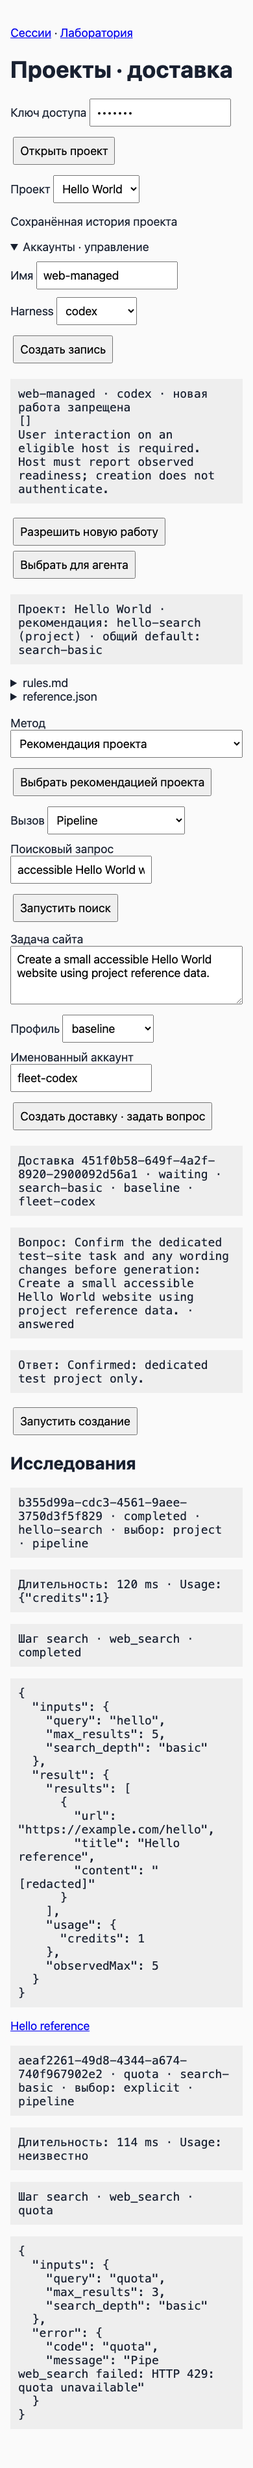
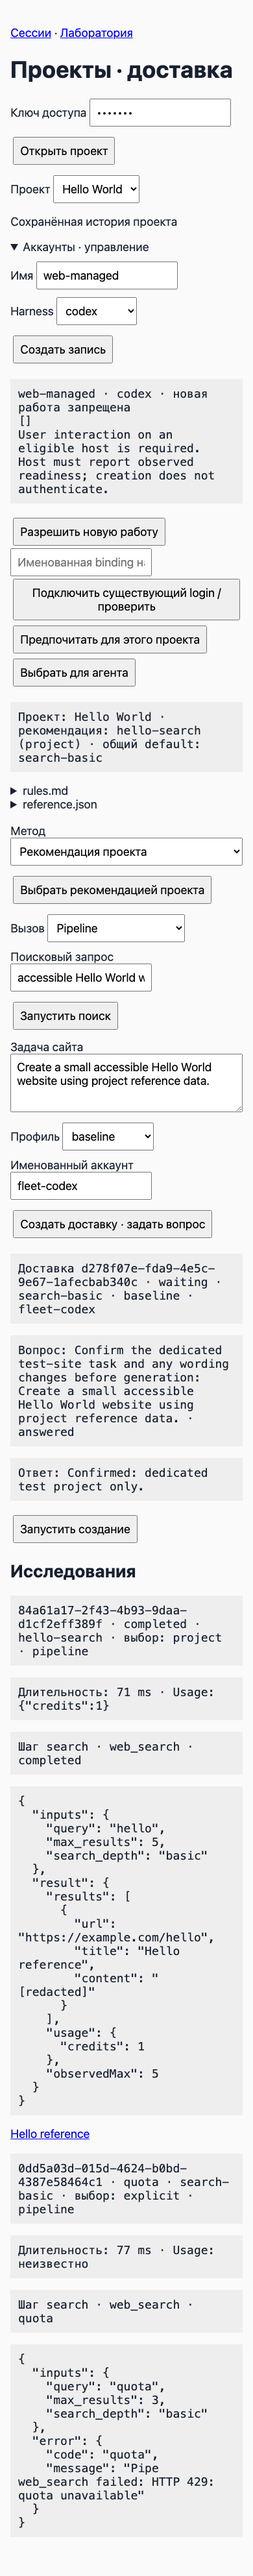
feat: inspect host account bindings and honor project preference

diff --git a/packages/coordinator/project-ui.ts b/packages/coordinator/project-ui.ts
@@ -3,7 +3,7 @@ const proxy=${proxy},$=id=>document.getElementById(id);let requestId=null,delive
 async function api(path,body){const r=await fetch(path,{method:body?'POST':'GET',headers:{...(proxy?{}:{Authorization:'Bearer '+$('key').value}),'Content-Type':'application/json'},body:body?JSON.stringify(body):undefined});if(!r.ok)throw Error(await r.text());return r.json()}
 const op=(name,args)=>api('/api/project-operations/'+name,args),project=()=>$('project').value;
 function line(el,t){const p=document.createElement('pre');p.textContent=t;el.append(p)}function button(el,label,action){const b=document.createElement('button');b.textContent=label;b.onclick=()=>action().then(load).catch(error);el.append(b)}
-async function load(){const ac=await api('/api/accounts');$('accounts').replaceChildren();for(const a of ac.accounts){const el=document.createElement('section');line(el,a.name+' · '+a.harness+' · '+(a.enabled?'новая работа разрешена':'новая работа запрещена')+'\\n'+JSON.stringify(a.bindings,null,2)+'\\n'+a.login);button(el,a.enabled?'Запретить новую работу':'Разрешить новую работу',()=>op('account_enabled',{accountId:a.id,enabled:!a.enabled}));const binding=document.createElement('input');binding.placeholder='Именованная binding на хосте';binding.setAttribute('aria-label','Host binding '+a.name);el.append(binding);button(el,'Подключить существующий login / проверить',()=>op('account_connect',{accountId:a.id,binding:binding.value}));button(el,'Выбрать для агента',async()=>{$('account').value=a.name});$('accounts').append(el)}localStorage.setItem('fleet-project',project());const p=await api('/api/projects/'+project()),c=await api('/api/projects/'+project()+'/catalogue');$('context').replaceChildren();line($('context'),'Проект: '+p.name+' · рекомендация: '+c.recommendedMethod+' ('+c.recommendationSource+') · общий default: '+c.sharedDefault);for(const f of p.context){const d=document.createElement('details'),s=document.createElement('summary');s.textContent=f.path;d.append(s);line(d,f.text);$('context').append(d)}const chosen=$('method').value;$('method').replaceChildren(new Option('Рекомендация проекта',''));for(const m of c.methods)$('method').append(new Option(m.name+' · '+m.id,m.id));$('method').value=chosen;
+async function load(){const ac=await api('/api/accounts');$('accounts').replaceChildren();for(const a of ac.accounts){const el=document.createElement('section');line(el,a.name+' · '+a.harness+' · '+(a.enabled?'новая работа разрешена':'новая работа запрещена')+'\\n'+JSON.stringify(a.bindings,null,2)+'\\n'+a.login);button(el,a.enabled?'Запретить новую работу':'Разрешить новую работу',()=>op('account_enabled',{accountId:a.id,enabled:!a.enabled}));const binding=document.createElement('input');binding.placeholder='Именованная binding на хосте';binding.setAttribute('aria-label','Host binding '+a.name);el.append(binding);button(el,'Подключить существующий login / проверить',()=>op('account_connect',{accountId:a.id,binding:binding.value}));button(el,'Предпочитать для этого проекта',()=>op('account_preference',{projectId:project(),accountId:a.id}));button(el,'Выбрать для агента',async()=>{$('account').value=a.name});$('accounts').append(el)}localStorage.setItem('fleet-project',project());const p=await api('/api/projects/'+project()),c=await api('/api/projects/'+project()+'/catalogue');$('context').replaceChildren();line($('context'),'Проект: '+p.name+' · рекомендация: '+c.recommendedMethod+' ('+c.recommendationSource+') · общий default: '+c.sharedDefault);for(const f of p.context){const d=document.createElement('details'),s=document.createElement('summary');s.textContent=f.path;d.append(s);line(d,f.text);$('context').append(d)}const chosen=$('method').value;$('method').replaceChildren(new Option('Рекомендация проекта',''));for(const m of c.methods)$('method').append(new Option(m.name+' · '+m.id,m.id));$('method').value=chosen;
 const history=await api('/api/projects/'+project()+'/runs');$('runs').replaceChildren();for(const r of history.runs){const el=document.createElement('section');el.dataset.run=r.id;line(el,r.id+' · '+r.state+' · '+r.selectedMethod+' · выбор: '+r.selectionSource+' · '+r.invocation);line(el,'Длительность: '+(r.durationMs===null?'неизвестно':r.durationMs+' ms')+' · Usage: '+(r.usage===null?'неизвестно':JSON.stringify(r.usage)));for(const step of r.steps){line(el,'Шаг '+step.id+' · '+step.tool+' · '+step.state);line(el,JSON.stringify({inputs:step.arguments,result:step.result,error:step.error},null,2))}for(const source of r.result?.sources||[]){try{const u=new URL(source.url);if(!['http:','https:'].includes(u.protocol))continue;const a=document.createElement('a');a.href=u.href;a.textContent=source.title;a.rel='noopener';a.target='_blank';el.append(a)}catch{}}$('runs').append(el)}
 const ds=await op('delivery_history',{projectId:project()}),qs=await op('question_history',{projectId:project()});$('deliveries').replaceChildren();for(const d of ds.deliveries){const el=document.createElement('section');el.dataset.delivery=d.id;line(el,'Доставка '+d.id+' · '+d.state+' · '+d.methodId+' · '+d.profileId+' · '+d.account);const q=qs.questions.find(q=>q.id===d.questionId);line(el,'Вопрос: '+q.text+' · '+q.state);if(q.state==='waiting'){const answer=document.createElement('input');answer.setAttribute('aria-label','Ответ оператору');answer.value='Confirmed: dedicated test project only.';el.append(answer);button(el,'Сохранить ответ',()=>op('question_answer',{questionId:q.id,answer:answer.value}))}else{line(el,'Ответ: '+q.answer);button(el,'Запустить создание',()=>op('delivery_generate',{deliveryId:d.id}))}for(const step of d.steps){line(el,JSON.stringify(step,null,2));if(step.executionId){const a=document.createElement('a');a.href='/?session='+d.sessionId;a.textContent='История сессии / '+step.executionId;el.append(a)}}if(d.error)line(el,JSON.stringify(d.error));if(d.state==='published')button(el,'Проверить отказ публикации',()=>op('delivery_step',{deliveryId:d.id,kind:'publish-failure'}));$('deliveries').append(el)}$('status').textContent='Сохранённая история проекта';}
 function error(e){$('status').textContent=e.message}$('load').onclick=()=>load().catch(error);$('project').value=localStorage.getItem('fleet-project')||'hello-world';$('project').onchange=()=>{requestId=null;deliveryRequestId=null;load().catch(error)};$('recommend').onclick=()=>op('recommendation_set',{projectId:project(),methodId:$('method').value}).then(load).catch(error);

diff --git a/packages/coordinator/accounts.ts b/packages/coordinator/accounts.ts
@@ -4,7 +4,8 @@ export function accounts(app:any,store:any,config:any){
  const name=(v:any)=>typeof v==='string'&&/^[a-z][a-z0-9-]{0,79}$/.test(v);
  const operations:any={
   account_list:()=>({accounts:all('managed-account')}),
-  account_create:(b:any)=>{if(!name(b.name)||!['codex','claude','antigravity'].includes(b.harness)||Object.keys(b).some(k=>!['name','harness'].includes(k)))fail(400,'Expected account name and harness');if(all('managed-account').some((a:any)=>a.name===b.name))fail(409,'Account name exists');const a={id:randomUUID(),name:b.name,harness:b.harness,enabled:true,createdAt:Date.now(),bindings:[],login:'User interaction on an eligible host is required. Host must report observed readiness; creation does not authenticate.'};put('managed-account',a);return a},
+  account_create:(b:any)=>{if(!name(b.name)||!['codex','claude','antigravity'].includes(b.harness)||Object.keys(b).some(k=>!['name','harness'].includes(k)))fail(400,'Expected account name and harness');if(all('managed-account').some((a:any)=>a.name===b.name))fail(409,'Account name exists');const a={id:randomUUID(),name:b.name,harness:b.harness,enabled:true,createdAt:Date.now(),bindings:[],login:'Native login on the eligible host, under its protected binding environment: '+({codex:'codex login --device-auth',claude:'claude auth login --claudeai (Mac/Windows only)',antigravity:'agy acp --login (may replace the shared native principal; explicit review required)'} as any)[b.harness]+'. Never paste codes or tokens into Fleet. Inspect an existing authorized login first; creation does not authenticate.'};put('managed-account',a);return a},
+  account_preference:(b:any)=>{if(!['hello-world','hello-world-alt'].includes(b.projectId))fail(404,'Unknown project');const a=get(b.accountId,'managed-account');const p={id:'project-account:'+b.projectId,projectId:b.projectId,accountName:a.name,selectedAt:Date.now(),actor:'operator'};put('project-account',p);return p},
   account_connect:(b:any)=>{const a=get(b.accountId,'managed-account');if(!name(b.binding)||!config.integrationHostId)fail(400,'Expected existing host-owned binding and available Mac program worker');const old=all('account-inspection').find((x:any)=>x.accountId===a.id&&x.binding===b.binding&&!['completed','failed','unknown'].includes(get(x.executionId,'execution').state));if(old)return old;const sid=randomUUID(),id=randomUUID();put('session',{id:sid,createdAt:Date.now(),actor:'program-worker'});put('execution',{id,executionId:id,sessionId:sid,hostId:config.integrationHostId,state:'queued',createdAt:Date.now(),actor:'program-worker',accountId:a.id});put('command',{id:randomUUID(),executionId:id,sessionId:sid,hostId:config.integrationHostId,kind:'account-inspect',status:'pending',payload:{accountId:a.id,harness:a.harness,binding:b.binding,nativeHostId:config.hostId}});const r={id:randomUUID(),accountId:a.id,binding:b.binding,executionId:id,createdAt:Date.now(),loginAction:'Inspect existing authorized login only. New or replacement login requires the native user interaction shown by the host; no authentication is changed by this operation.'};put('account-inspection',r);return r},
   account_enabled:(b:any)=>{const a=get(b.accountId,'managed-account');if(typeof b.enabled!=='boolean')fail(400,'Expected enabled');a.enabled=b.enabled;a.updatedAt=Date.now();put('managed-account',a);return a},
  };
@@ -14,5 +15,5 @@ export function accounts(app:any,store:any,config:any){
  app.get('/api/accounts',async()=>operations.account_list());
  app.post('/api/accounts',async(req:any)=>operations.account_create(req.body));
  app.post('/api/accounts/:id/enabled',async(req:any)=>operations.account_enabled({...req.body,accountId:req.params.id}));
- return {operations,resolve,report};
+ return {operations,resolve,report,preferred:(projectId:string)=>all('project-account').find((p:any)=>p.projectId===projectId)?.accountName};
 }

diff --git a/packages/coordinator/delivery.ts b/packages/coordinator/delivery.ts
@@ -1,7 +1,7 @@
 import {randomUUID,createHash} from 'node:crypto';
 import {readTrustedProfile} from './lab.js';
 // shortcut: static-site delivery only; add other worker kinds after a real consumer exists.
-export function delivery(store:any,config:any,enqueue:any,projects:any,resolveAccount:any){
+export function delivery(store:any,config:any,enqueue:any,projects:any,resolveAccount:any,preferredAccount:any){
  const {all,get,put}=store;
  const fail=(code:number,message:string):never=>{throw Object.assign(Error(message),{statusCode:code})};
  const save=(r:any)=>{put('delivery',r);return r};
@@ -10,10 +10,10 @@ export function delivery(store:any,config:any,enqueue:any,projects:any,resolveAc
   delivery_create:async(b:any)=>{
    if(!b||Array.isArray(b)||Object.keys(b).some(k=>!['projectId','requestId','task','methodId','invocation','profileId','account'].includes(k))||typeof b.requestId!=='string'||!b.requestId||b.requestId.length>200||b.invocation!==undefined&&!['direct','pipeline'].includes(b.invocation)||b.account!==undefined&&(typeof b.account!=='string'||!/^(?:[a-z][a-z0-9-]{0,79}|[a-f0-9-]{36})$/.test(b.account))||typeof b.task!=='string'||!b.task.trim()||b.task.length>4000)fail(400,'Expected requestId and task');
    const signature=JSON.stringify(b),old=all('delivery').find((r:any)=>r.projectId===b.projectId&&r.requestId===b.requestId);if(old){if(old.signature!==signature)fail(409,'Delivery identity conflict');return reconcile(old)}
-   resolveAccount(b.account??'fleet-codex','codex',config.hostId);readTrustedProfile(config.profilesDirectory||'config/agents',b.profileId??'baseline');
+   resolveAccount(b.account??preferredAccount(b.projectId)??'fleet-codex','codex',config.hostId);readTrustedProfile(config.profilesDirectory||'config/agents',b.profileId??'baseline');
    const context=projects.project_context(b),catalogue=projects.catalogue(b);if(!catalogue.methods.some((m:any)=>m.id===(b.methodId??catalogue.recommendedMethod)))fail(400,'Method unavailable');
    const q=projects.question_ask({projectId:b.projectId,requestId:'delivery:'+b.requestId,text:'Confirm the dedicated test-site task and any wording changes before generation: '+b.task});
-   return save({id:randomUUID(),projectId:b.projectId,requestId:b.requestId,signature,task:b.task,context,methodId:b.methodId??catalogue.recommendedMethod,selectionSource:b.methodId?'explicit':catalogue.recommendationSource,invocation:b.invocation??'pipeline',profileId:b.profileId??'baseline',account:b.account??'fleet-codex',questionId:q.id,createdAt:Date.now(),state:'waiting',steps:[]});
+   return save({id:randomUUID(),projectId:b.projectId,requestId:b.requestId,signature,task:b.task,context,methodId:b.methodId??catalogue.recommendedMethod,selectionSource:b.methodId?'explicit':catalogue.recommendationSource,invocation:b.invocation??'pipeline',profileId:b.profileId??'baseline',account:b.account??preferredAccount(b.projectId)??'fleet-codex',accountSelectionSource:b.account?'explicit':preferredAccount(b.projectId)?'project-preference':'legacy-default',questionId:q.id,createdAt:Date.now(),state:'waiting',steps:[]});
   },
   delivery_generate:async(b:any)=>{
    const r=get(b.deliveryId,'delivery');if(r.steps.length||r.state!=='waiting')return reconcile(r);const q=get(r.questionId,'project-question');if(q.state!=='answered')fail(409,'Operator answer required');

diff --git a/tests/coordinator/delivery.test.ts b/tests/coordinator/delivery.test.ts
@@ -2,7 +2,7 @@ import {test} from 'node:test';import assert from 'node:assert/strict';import {c
 test('shared project selection and durable operator answer before generation',async()=>{
  const f=await projectFixture();await f.app.close();const config={...f.config,integrationHostId:'mac-program',publicationHostId:'pds-program'};const app=createApp(config);const headers={authorization:'Bearer browser'},machine={authorization:'Bearer machine'};const api=async(url:string,payload?:any)=>{const r=await app.inject({method:payload?'POST':'GET',url,headers,payload});assert.ok(r.statusCode<300,r.body);return r.json()};const op=(name:string,b:any)=>api('/api/project-operations/'+name,b);const host=async(route:string,b:any)=>{const r=await app.inject({method:'POST',url:'/api/hosts/'+route,headers:machine,payload:b});assert.ok(r.statusCode<300,r.body);return r.json()};try{
  const alt=await op('project_context',{projectId:'hello-world-alt'});assert.match(alt.context[0].text,/field-notes/);assert.equal((await op('catalogue',{projectId:alt.id})).recommendedMethod,'search-basic');await op('recommendation_set',{projectId:'hello-world',methodId:'search-basic'});assert.equal((await op('catalogue',{projectId:'hello-world'})).recommendationSource,'project-selected');
- const a=await op('account_create',{name:'managed-test',harness:'codex'});assert.deepEqual(a.bindings,[]);await host('accounts',{hostId:'host',accountId:a.id,binding:'fleet-codex-second',platform:'darwin',readiness:'ready'});
+ const a=await op('account_create',{name:'managed-test',harness:'codex'});assert.deepEqual(a.bindings,[]);const inspect=await op('account_connect',{accountId:a.id,binding:'fleet-codex-second'});assert.ok(inspect.executionId);assert.deepEqual((await op('account_list',{})).accounts[0].bindings,[]);await op('account_preference',{projectId:'hello-world',accountId:a.id});await host('accounts',{hostId:'host',accountId:a.id,binding:'fleet-codex-second',platform:'darwin',readiness:'ready'});
  const d=await op('delivery_create',{projectId:'hello-world',requestId:'delivery',task:'Accessible local static page',account:a.name});assert.equal(d.state,'waiting');const reject=await app.inject({method:'POST',url:'/api/project-operations/delivery_generate',headers,payload:{deliveryId:d.id}});assert.equal(reject.statusCode,409);assert.equal(f.calls(),0);
  await op('question_answer',{questionId:d.questionId,answer:'Dedicated test confirmed'});await app.close();const restored=createApp(config);await restored.close();
  }finally{try{await app.close()}catch{}await f.close()}

diff --git a/packages/coordinator/app.ts b/packages/coordinator/app.ts
@@ -96,7 +96,7 @@ export function createApp(config:{database:string,browserSecret:string,machineSe
  app.get('/api/results/:id',async(req:any,r)=>{const a=get(req.params.id,'artifact');r.header('Content-Security-Policy',"sandbox allow-scripts; default-src 'none'; script-src 'unsafe-inline'; style-src 'unsafe-inline'; img-src data:");return r.type(a.mediaType||'application/octet-stream').send(Buffer.from(a.contentBase64,'base64'))});
  const projects=registerProjects(app,{all,get,put},{directory:config.projectConfigDirectory||'config',pipeConnectionFile:config.pipeConnectionFile,proxy:config.browserProxyAuth,searchHostId:config.integrationHostId});
  Object.assign(projects,managed.operations);
- deliveryRuntime=delivery({all,get,put},config,enqueue,projects,managed.resolve);
+ deliveryRuntime=delivery({all,get,put},config,enqueue,projects,managed.resolve,managed.preferred);
  Object.assign(projects,deliveryRuntime.operations);
  registerLab(app,{all,get,put,transaction:fn=>db.transaction(fn)()},{hostId:config.hostId,profilesDirectory:config.profilesDirectory||'config/agents',browserProxyAuth:config.browserProxyAuth});
  app.addHook('onClose',async()=>{db.close()});return app;
